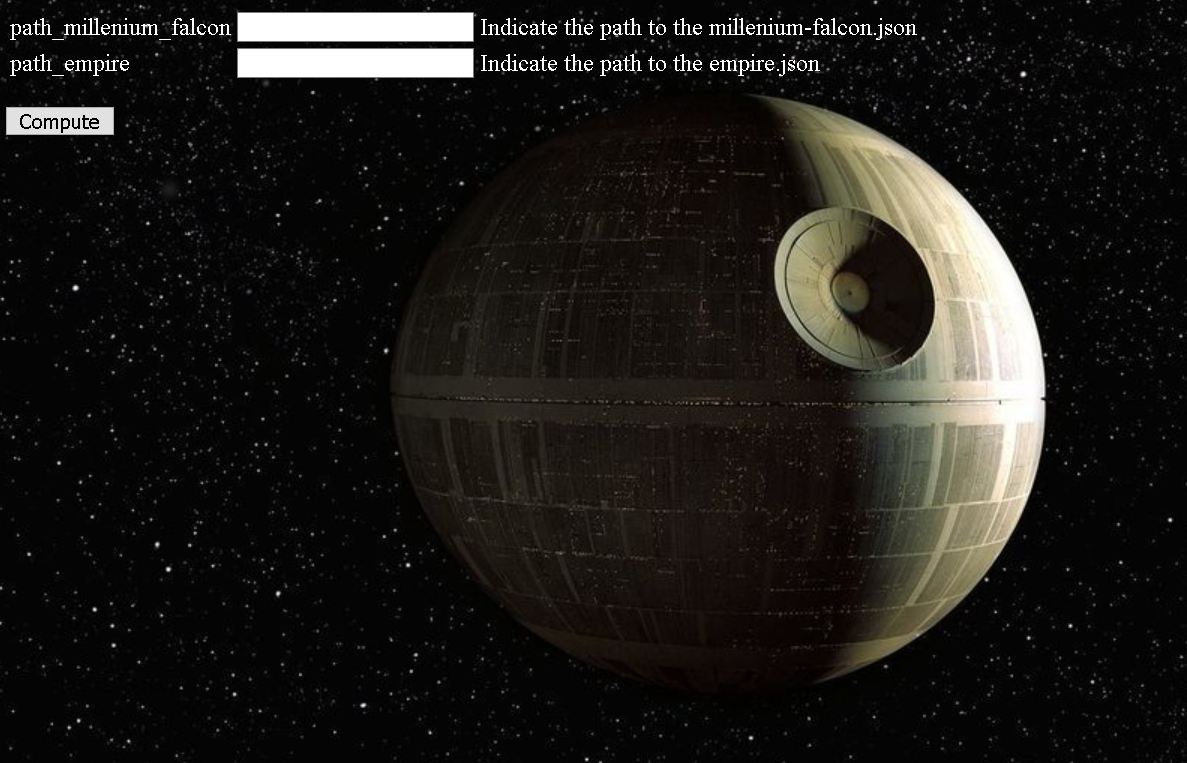
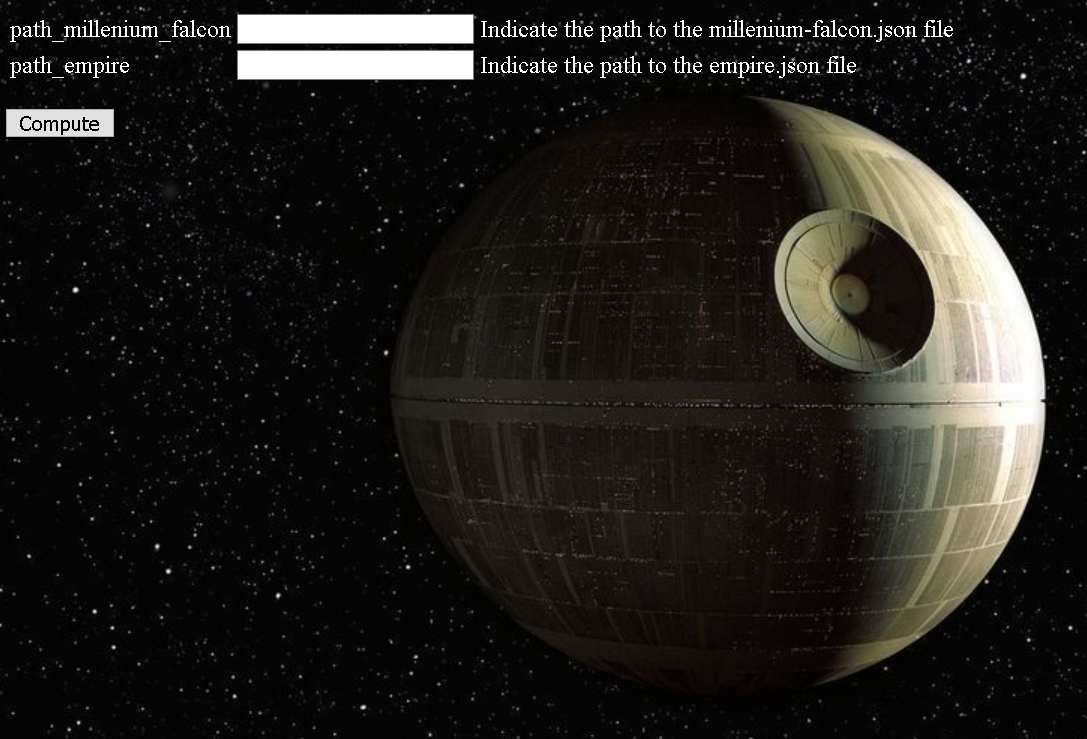
Add files via upload

diff --git a/model.py b/model.py
@@ -1,5 +1,5 @@
 from wtforms import Form, FloatField, validators, StringField
 
 class InputForm(Form):
-    path_millenium_falcon = StringField('Indicate the path to the millenium-falcon.json', [validators.Length(min=1, max=10000)])
-    path_empire = StringField('Indicate the path to the empire.json', [validators.Length(min=1, max=10000)])
+    path_millenium_falcon = StringField('Indicate the path to the millenium-falcon.json file', [validators.Length(min=1, max=10000)])
+    path_empire = StringField('Indicate the path to the empire.json file', [validators.Length(min=1, max=10000)])
